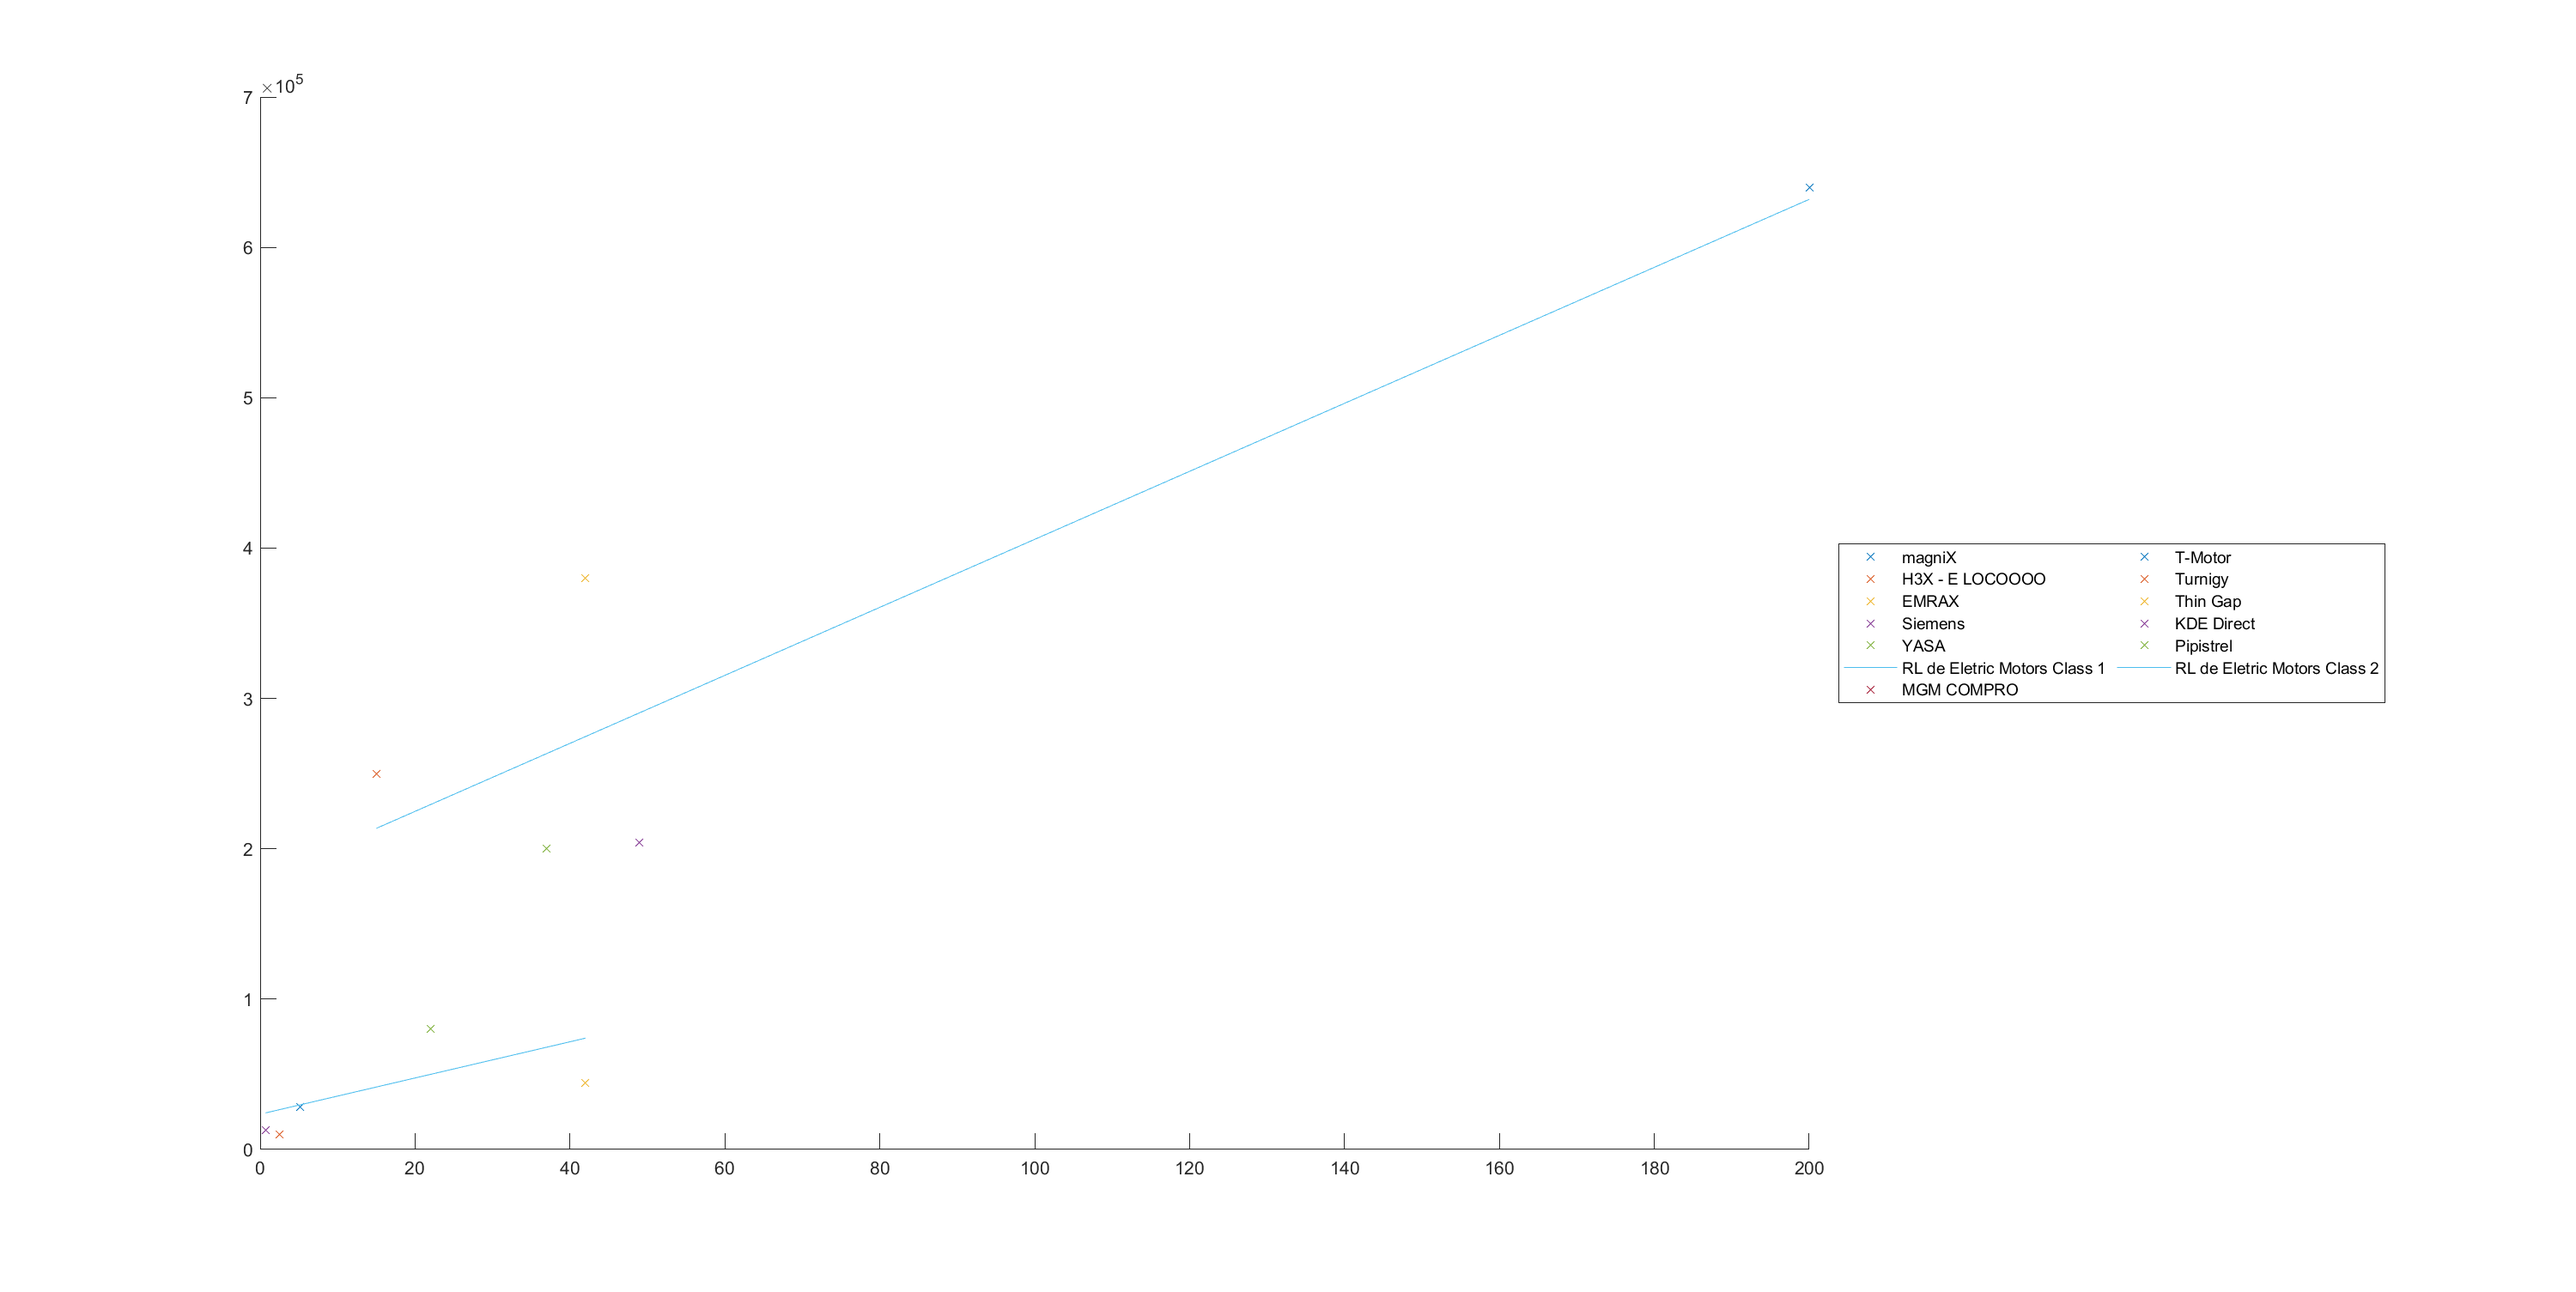
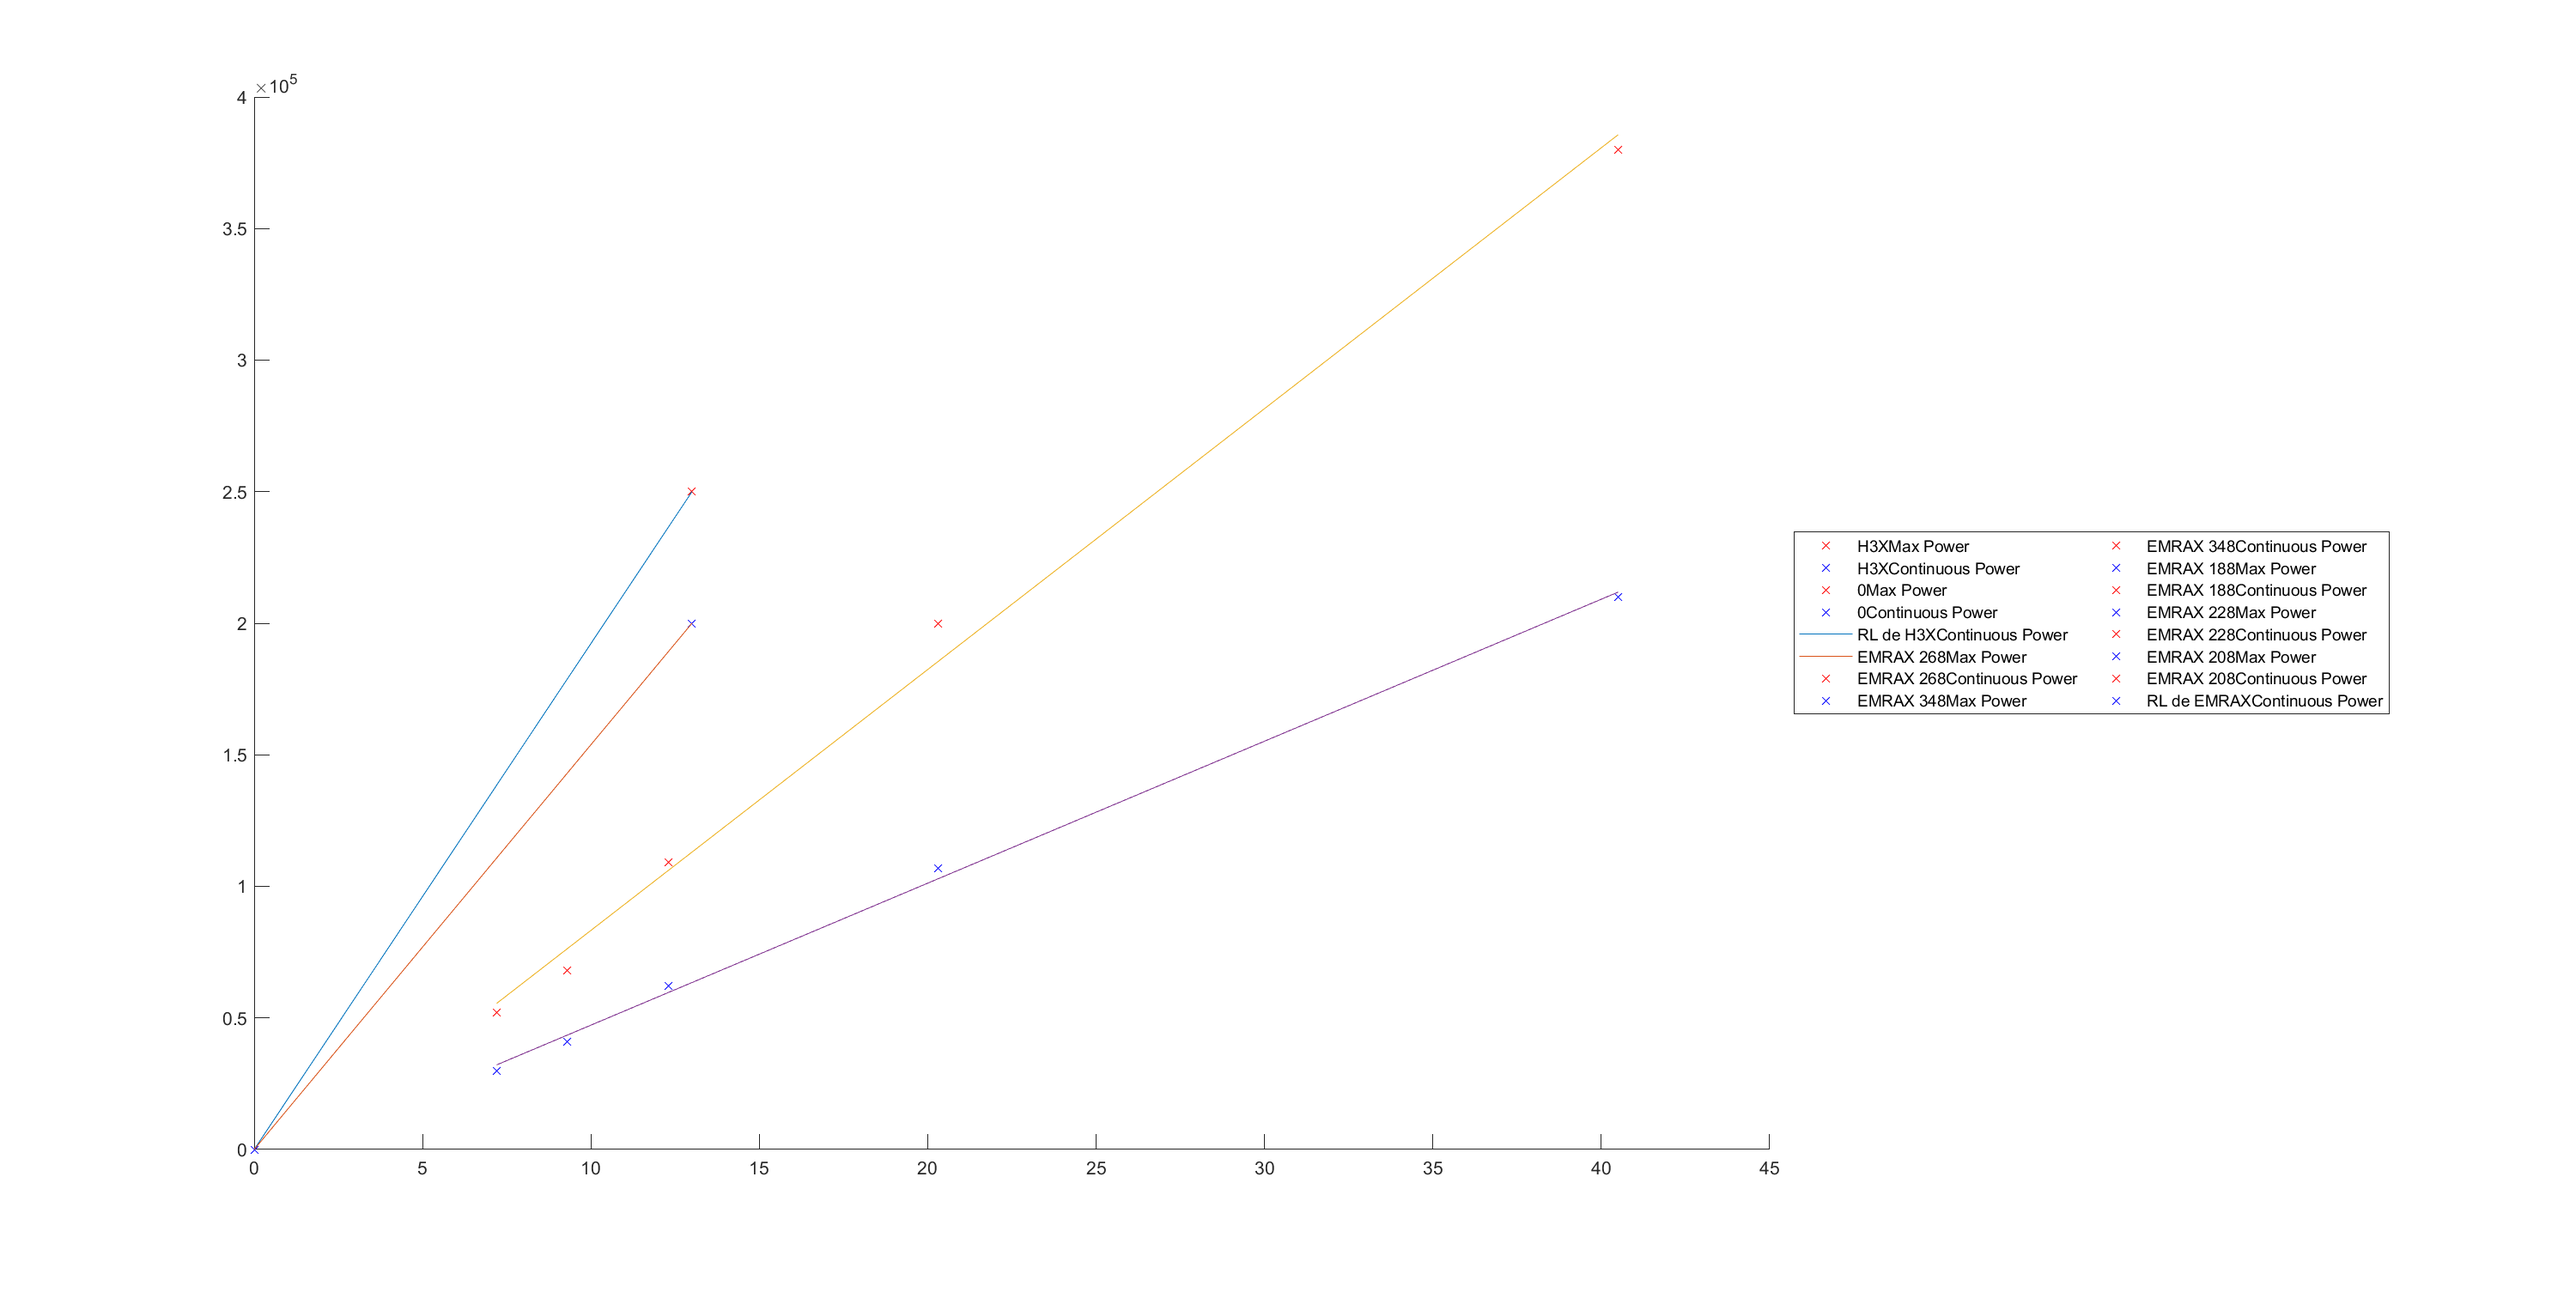
Eletric Motors Update

Changed region(s): [[0.713, 0.406, 0.93, 0.5621], [0.093, 0.8432, 0.124, 0.8744], [0.093, 0.0625, 0.124, 0.0937]]

diff --git a/aircraft-design-tool-main/Engine_Related/Engine_Build.m b/aircraft-design-tool-main/Engine_Related/Engine_Build.m
@@ -32,23 +32,33 @@ n = 0;
 for c=1:length(complex_engines.engine_set)
     
     x_aproximado = linspace(complex_engines.engine_set{c}.min_weight,complex_engines.engine_set{c}.max_weight,100);
-    y_aproximado = x_aproximado.*complex_engines.engine_set{c}.b1 + complex_engines.engine_set{c}.b0;
-    
+    if(isfield(complex_engines.engine_set{c},'b1_m'))
+    y_aproximado = x_aproximado.*complex_engines.engine_set{c}.b1_m + complex_engines.engine_set{c}.b0_m;
+    end
+    if(isfield(complex_engines.engine_set{c},'b1_c'))
+    z_aproximado = x_aproximado.*complex_engines.engine_set{c}.b1_c + complex_engines.engine_set{c}.b0_c;
+    end
     for d=1:size(real_engines.engine_set{c}.engines,1)
         plot(real_engines.engine_set{c}.engines{d}.mass,...
             real_engines.engine_set{c}.engines{d}.max_power,...
-            'x');
-        legend_cell{n+d} =  real_engines.engine_set{c}.engines{d}.name;
+            'rx');
+        legend_cell{n+2*d-1} =  [real_engines.engine_set{c}.engines{d}.name 'Max Power'];
+        
+        plot(   real_engines.engine_set{c}.engines{d}.mass,...
+                real_engines.engine_set{c}.engines{d}.con_power,...
+            'bx');
+        legend_cell{n+2*d} =  [real_engines.engine_set{c}.engines{d}.name 'Continuous Power'];
         %x_real(d) = real_engines.engine_set{c}.engines{d}.mass;
         %y_real(d) = real_engines.engine_set{c}.engines{d}.max_power;
     end
     %plot(x_real,y_real,'x');
     %legend_cell{2*c -1} = real_engines.engine_set{c}.name;
     
-    n = n+d +1;
+    n = n+2*d +1;
     plot(x_aproximado, y_aproximado);
-    legend_cell{n} = ['RL de ' real_engines.engine_set{c}.name];
-    %legend_cell{2*c} = real_engines.engine_set{c}.name;
+    legend_cell{n} = ['RL de ' real_engines.engine_set{c}.name 'Max Power'];
+    plot(x_aproximado, z_aproximado);
+    legend_cell{n} = ['RL de ' real_engines.engine_set{c}.name 'Continuous Power'];
 end
 
 legend(legend_cell,'Location','eastoutside','NumColumns', 2);

diff --git a/aircraft-design-tool-main/scramble_aircraft.m b/aircraft-design-tool-main/scramble_aircraft.m
@@ -4,6 +4,10 @@ global constants;
 constants.g = 9.81; % m/s^2
 REL_ADVANCEMENT = 0.05;
 frame = aircraft.vehicle.components;
+
+mean_chord      = 0;
+aspect_ratio    = 0;
+
 for i = 1 : length(frame)
     %% Crew
     %
@@ -78,20 +82,29 @@ for i = 1 : length(frame)
         lim_3 = [10 , 16];
         while 1
             % Aspect ratio
-            while 1
-                a = frame{i}.aspect_ratio*surprise((lim_1(1)-lim_1(2))/frame{i}.aspect_ratio, REL_ADVANCEMENT);
-                if is_in_limit(lim_1(1), a, lim_1(2))
-                    frame{i}.aspect_ratio = a;
-                    break;
+            if aspect_ratio~=0
+                while 1
+                    a = frame{i}.aspect_ratio*surprise((lim_1(1)-lim_1(2))/frame{i}.aspect_ratio, REL_ADVANCEMENT);
+                    if is_in_limit(lim_1(1), a, lim_1(2))
+                        frame{i}.aspect_ratio = a;
+                        aspect_ratio = a;
+                        break;
+                    end
                 end
+            else
+                frame{i}.aspect_ratio = aspect_ratio;
             end
             % mean chord
+            if mean_chord~=0
             while 1
                 a = frame{i}.mean_chord*surprise((lim_2(1)-lim_2(2))/frame{i}.mean_chord, REL_ADVANCEMENT);
                 if is_in_limit(lim_2(1), a, lim_2(2))
                     frame{i}.mean_chord = a;
                     break;
                 end
+            end
+            else
+                frame{i}.mean_chord = mean_chord;
             end
             % span (inferred)
             if is_in_limit(lim_3(1), frame{i}.aspect_ratio*frame{i}.mean_chord, lim_3(2))

diff --git a/aircraft-design-tool-main/Engine_Related/fill_engines.m b/aircraft-design-tool-main/Engine_Related/fill_engines.m
@@ -23,21 +23,31 @@ for c=1:size(input_engines.engine_set,1)
     
     n = size(input_engines.engine_set{c}.engines,1);
     for d=1:n
-        x(d) = input_engines.engine_set{c}.engines{d}.mass;
-        y(d) = input_engines.engine_set{c}.engines{d}.max_power;
- 
+        if(isfield(input_engines.engine_set{c}.engines{d},'max_power'))
+            x_y(d)  = input_engines.engine_set{c}.engines{d}.mass;
+            y(d) 	= input_engines.engine_set{c}.engines{d}.max_power;
+        end
+        if(isfield(input_engines.engine_set{c}.engines{d},'con_power'))
+            x_z(d)  = input_engines.engine_set{c}.engines{d}.mass;
+            z(d)    = input_engines.engine_set{c}.engines{d}.con_power;
+        end
     end
     
-    X = [ones(n,1),x(1:n).'];
+    X_Y = [ones(n,1),x_y(1:n).'];
+    X_Z = [ones(n,1),x_z(1:n).'];
     Y = y(1:n).';
-    C = X\Y;
+    Z = z(1:n).';
+    C_Y = X_Y\Y;
+    C_Z = X_Z\Z;
     
     %% Data filling
     data.engine_set{c}.type = input_engines.engine_set{c}.type;
-    data.engine_set{c}.b1   = C(2);
-    data.engine_set{c}.b0   = C(1);
-    data.engine_set{c}.min_weight  = min(x(1:n));
-    data.engine_set{c}.max_weight  = max(x(1:n));
+    data.engine_set{c}.b1_m   = C_Y(2);
+    data.engine_set{c}.b0_m   = C_Y(1);
+    data.engine_set{c}.b1_c   = C_Z(2);
+    data.engine_set{c}.b0_c   = C_Z(1);
+    data.engine_set{c}.min_weight  = min(x_y(1:n));
+    data.engine_set{c}.max_weight  = max(x_y(1:n));
     data.engine_set{c}.min_power   = min(y(1:n));
     data.engine_set{c}.max_power   = max(y(1:n));
     

diff --git a/aircraft-design-tool-main/Engine_Related/All_Engines_Builder.m b/aircraft-design-tool-main/Engine_Related/All_Engines_Builder.m
@@ -31,12 +31,14 @@
 %% Declaracao inicial dos ficheiros
 text_data_folder    = 'text_data/';
 image_data_folder   = 'figure_data/';
-text_data_classes   = [ "Turboshafts"       ;...
-                        "EletricMotors"     ;...
-                        "EletricGenerators" ];
+% text_data_classes   = [ "Turboshafts"       ;...
+%                         "EletricMotors"     ;...
+%                         "EletricGenerators" ];
 
+text_data_classes   = [ "EletricMotors"  ];
+    
 for c=1:length(text_data_classes)
-    input_file(c,1)         = join([text_data_folder, text_data_classes(c), '_data_start.JSON'],"");
+    input_file(c,1)         = join([text_data_folder, text_data_classes(c), '.JSON'],"");
     output_text_file(c,1) 	= join([text_data_folder, text_data_classes(c), '_data_end.JSON'],"");
     output_image_file(c,1) 	= join([image_data_folder, text_data_classes(c), '.png'],"");
 end

diff --git a/aircraft-design-tool-main/propeller_efficiency_analysis.m b/aircraft-design-tool-main/propeller_efficiency_analysis.m
@@ -1,0 +1,28 @@
+%
+%
+%
+%
+% Will change MTOW and Prop efficiency
+%
+%
+function result = propeller_efficiency_analysis(aircraft)
+
+global constants;
+
+eff = [0 0];
+
+% Gets J
+
+for abs(eff(1) - eff(2)) > 0.01
+    % Gets MTOW
+    aircraft = mass_analysis(aircraft.mission, aircraft.vehicle, aircraft.energy);
+    % Gets data
+    wl = vehicle.mass * constants.g / (c_1.area_ref + c_2.area_ref);
+    % Gets P
+    P = cruise_speed_constraint_prop(wl, rho, v, cd_0, k, ee)
+    % Gets efficiency
+    eff(2) = eff(1);
+    eff(1) = gets_efficiency(J, P);
+end
+
+result = aircraft

diff --git a/aircraft-design-tool-main/draft.m b/aircraft-design-tool-main/draft.m
@@ -1,0 +1,10 @@
+% Obtem T
+% Faz lista de P -> Cp
+% Calcula J
+% Descobre eficiencias -> T
+% Verifica qual o minimo P
+% Altera eficiencia conforme
+% Iterar
+
+
+
